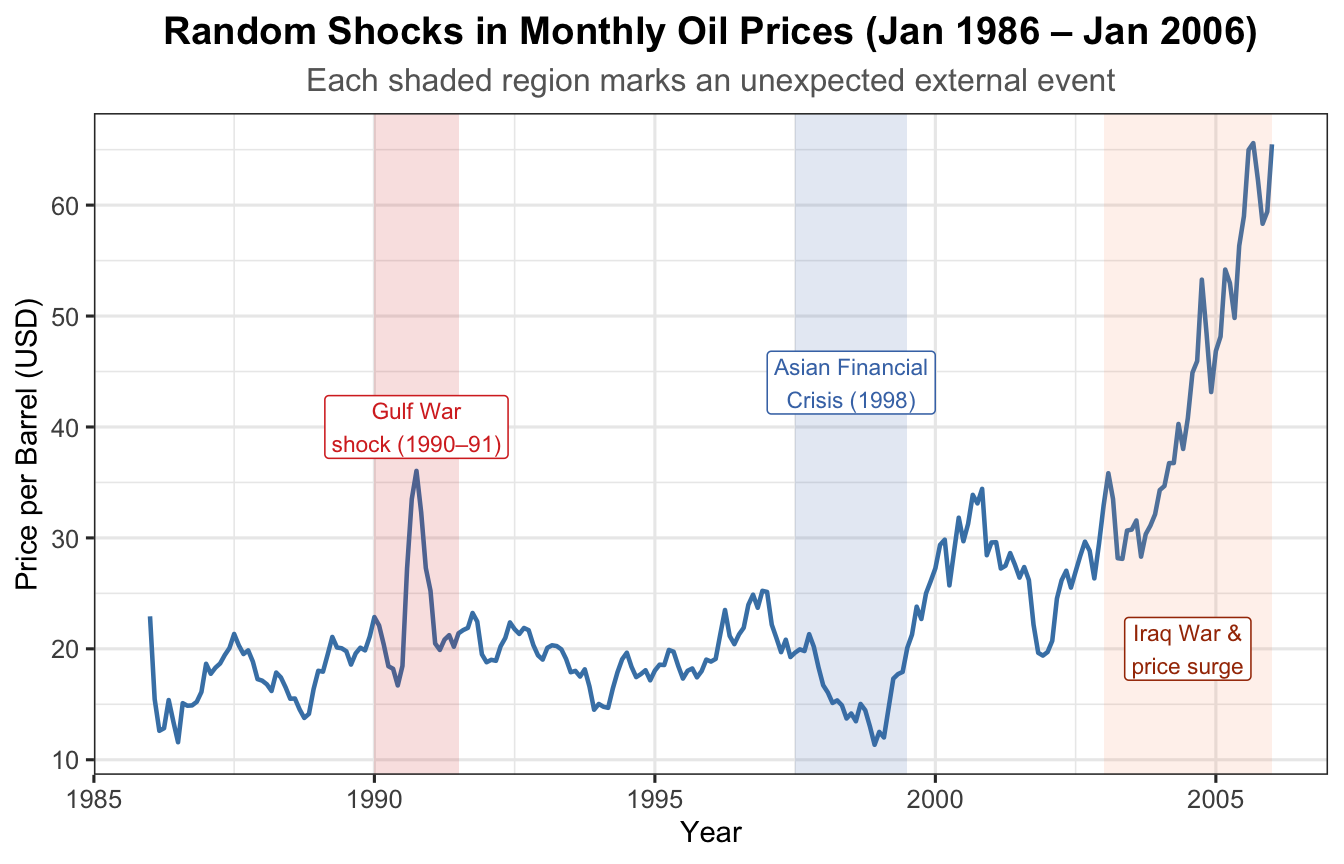
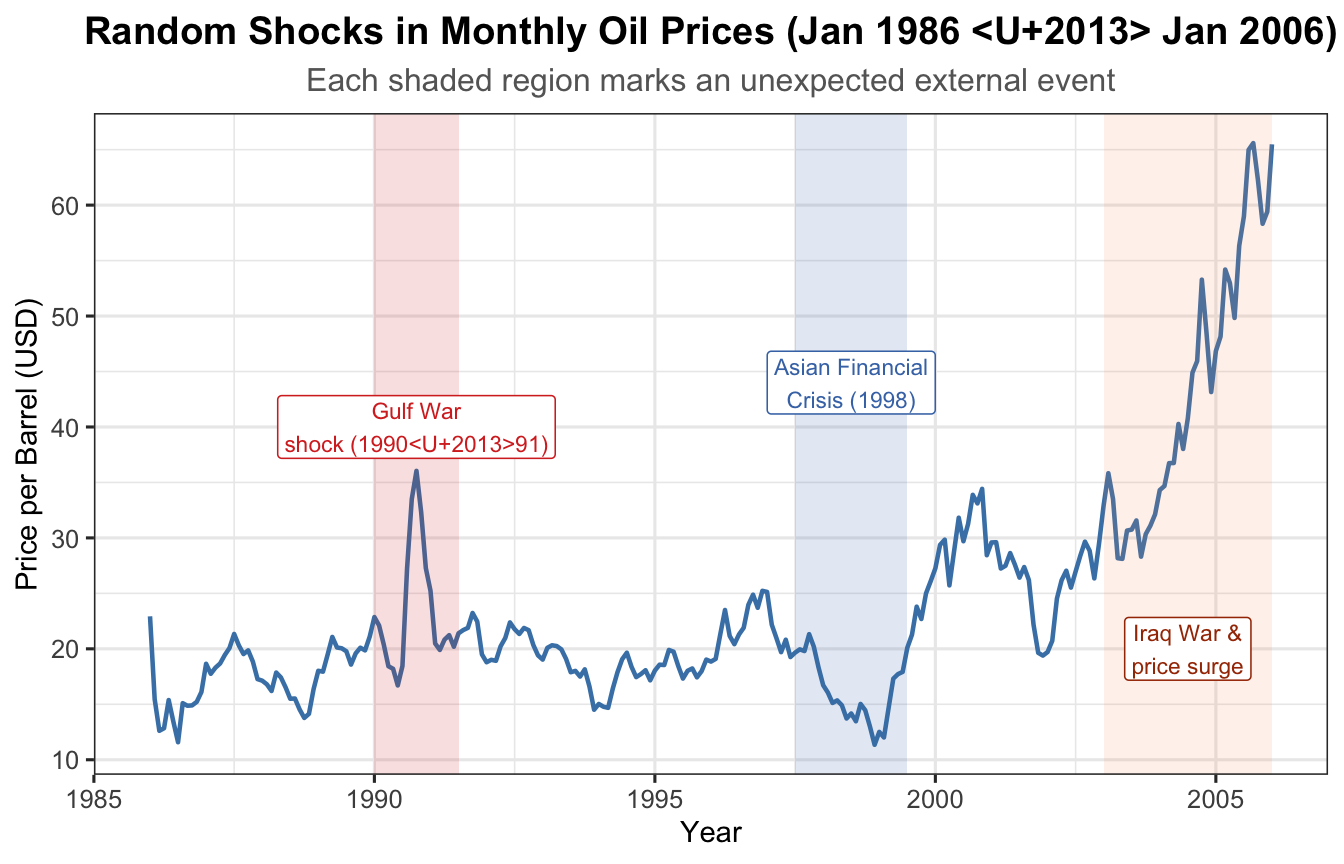
Update instructor name to Muhammad Asmu'i Abdul Rahim
Re-render index, C1 and C2 to replace Dr Nurul Nisa' Khairol Azmi
with Muhammad Asmu'i Abdul Rahim in page body and footer.

Changed region(s): [[0.0625, 0.0, 1.0, 0.0625], [0.1875, 0.4375, 0.4062, 0.5312]]

diff --git a/docs/C2 Univariate Modelling Techniques.html b/docs/C2 Univariate Modelling Techniques.html
@@ -399,7 +399,7 @@ Note
 <div id="tbl-naive" class="cell quarto-float quarto-figure quarto-figure-center anchored">
 <figure class="quarto-float quarto-float-tbl figure">
 <figcaption class="quarto-float-caption-top quarto-float-caption quarto-float-tbl" id="tbl-naive-caption-0ceaefa1-69ba-4598-a22c-09a6ac19f8ca">
-Table&nbsp;1: Naive forecast — worked example
+Table&nbsp;1: Naive forecast &lt;U+2014&gt; worked example
 </figcaption>
 <div aria-describedby="tbl-naive-caption-0ceaefa1-69ba-4598-a22c-09a6ac19f8ca">
 <div class="cell-output-display">
@@ -565,7 +565,7 @@ Note
 <div id="tbl-naive-trend" class="cell quarto-float quarto-figure quarto-figure-center anchored">
 <figure class="quarto-float quarto-float-tbl figure">
 <figcaption class="quarto-float-caption-top quarto-float-caption quarto-float-tbl" id="tbl-naive-trend-caption-0ceaefa1-69ba-4598-a22c-09a6ac19f8ca">
-Table&nbsp;2: Naive with trend — worked example
+Table&nbsp;2: Naive with trend &lt;U+2014&gt; worked example
 </figcaption>
 <div aria-describedby="tbl-naive-trend-caption-0ceaefa1-69ba-4598-a22c-09a6ac19f8ca">
 <div class="cell-output-display">
@@ -688,7 +688,7 @@ Table&nbsp;2: Naive with trend — worked example
 <div id="tbl-avg-change" class="cell quarto-float quarto-figure quarto-figure-center anchored">
 <figure class="quarto-float quarto-float-tbl figure">
 <figcaption class="quarto-float-caption-top quarto-float-caption quarto-float-tbl" id="tbl-avg-change-caption-0ceaefa1-69ba-4598-a22c-09a6ac19f8ca">
-Table&nbsp;3: Average change — worked example
+Table&nbsp;3: Average change &lt;U+2014&gt; worked example
 </figcaption>
 <div aria-describedby="tbl-avg-change-caption-0ceaefa1-69ba-4598-a22c-09a6ac19f8ca">
 <div class="cell-output-display">
@@ -813,7 +813,7 @@ Important
 <div id="tbl-avg-pct" class="cell quarto-float quarto-figure quarto-figure-center anchored">
 <figure class="quarto-float quarto-float-tbl figure">
 <figcaption class="quarto-float-caption-top quarto-float-caption quarto-float-tbl" id="tbl-avg-pct-caption-0ceaefa1-69ba-4598-a22c-09a6ac19f8ca">
-Table&nbsp;4: Average percent change — worked example
+Table&nbsp;4: Average percent change &lt;U+2014&gt; worked example
 </figcaption>
 <div aria-describedby="tbl-avg-pct-caption-0ceaefa1-69ba-4598-a22c-09a6ac19f8ca">
 <div class="cell-output-display">
@@ -1013,7 +1013,7 @@ Important
 <div id="tbl-ses" class="cell quarto-float quarto-figure quarto-figure-center anchored">
 <figure class="quarto-float quarto-float-tbl figure">
 <figcaption class="quarto-float-caption-top quarto-float-caption quarto-float-tbl" id="tbl-ses-caption-0ceaefa1-69ba-4598-a22c-09a6ac19f8ca">
-Table&nbsp;5: Single exponential smoothing (α = 0.8) — worked example
+Table&nbsp;5: Single exponential smoothing (&lt;U+03B1&gt; = 0.8) &lt;U+2014&gt; worked example
 </figcaption>
 <div aria-describedby="tbl-ses-caption-0ceaefa1-69ba-4598-a22c-09a6ac19f8ca">
 <div class="cell-output-display">
@@ -1077,7 +1077,7 @@ Table&nbsp;5: Single exponential smoothing (α = 0.8) — worked example
 <span id="cb23-2"><a href="#cb23-2" aria-hidden="true" tabindex="-1"></a><span class="fu">cat</span>(<span class="st">"Forecast for 2024 (SES, α = 0.8):"</span>, <span class="fu">round</span>(f2024_ses, <span class="dv">4</span>), <span class="st">"</span><span class="sc">\n</span><span class="st">"</span>)</span></code><button title="Copy to Clipboard" class="code-copy-button"><i class="bi"></i></button></pre></div>
 </details>
 <div class="cell-output cell-output-stdout">
-<pre><code>Forecast for 2024 (SES, α = 0.8): 15.6538 </code></pre>
+<pre><code>Forecast for 2024 (SES, &lt;U+03B1&gt; = 0.8): 15.6538 </code></pre>
 </div>
 <details class="code-fold">
 <summary>Show R Code</summary>
@@ -1240,7 +1240,7 @@ Figure&nbsp;2: SES forecast for Malaysia CPI (α = 0.999)
 <div id="tbl-des" class="cell quarto-float quarto-figure quarto-figure-center anchored">
 <figure class="quarto-float quarto-float-tbl figure">
 <figcaption class="quarto-float-caption-top quarto-float-caption quarto-float-tbl" id="tbl-des-caption-0ceaefa1-69ba-4598-a22c-09a6ac19f8ca">
-Table&nbsp;6: Double exponential smoothing (α = 0.8) — worked example
+Table&nbsp;6: Double exponential smoothing (&lt;U+03B1&gt; = 0.8) &lt;U+2014&gt; worked example
 </figcaption>
 <div aria-describedby="tbl-des-caption-0ceaefa1-69ba-4598-a22c-09a6ac19f8ca">
 <div class="cell-output-display">
@@ -1342,7 +1342,7 @@ Table&nbsp;6: Double exponential smoothing (α = 0.8) — worked example
 <span id="cb33-2"><a href="#cb33-2" aria-hidden="true" tabindex="-1"></a><span class="fu">cat</span>(<span class="st">"Forecast for 2024 (DES, α = 0.8, m = 1):"</span>, <span class="fu">round</span>(f2024_des, <span class="dv">4</span>), <span class="st">"</span><span class="sc">\n</span><span class="st">"</span>)</span></code><button title="Copy to Clipboard" class="code-copy-button"><i class="bi"></i></button></pre></div>
 </details>
 <div class="cell-output cell-output-stdout">
-<pre><code>Forecast for 2024 (DES, α = 0.8, m = 1): 17.7402 </code></pre>
+<pre><code>Forecast for 2024 (DES, &lt;U+03B1&gt; = 0.8, m = 1): 17.7402 </code></pre>
 </div>
 <details class="code-fold">
 <summary>Show R Code</summary>
@@ -1392,7 +1392,7 @@ Table&nbsp;6: Double exponential smoothing (α = 0.8) — worked example
 <div id="tbl-holt" class="cell quarto-float quarto-figure quarto-figure-center anchored">
 <figure class="quarto-float quarto-float-tbl figure">
 <figcaption class="quarto-float-caption-top quarto-float-caption quarto-float-tbl" id="tbl-holt-caption-0ceaefa1-69ba-4598-a22c-09a6ac19f8ca">
-Table&nbsp;7: Holt’s method (α = 0.6, β = 0.2) — worked example
+Table&nbsp;7: Holt’s method (&lt;U+03B1&gt; = 0.6, &lt;U+03B2&gt; = 0.2) &lt;U+2014&gt; worked example
 </figcaption>
 <div aria-describedby="tbl-holt-caption-0ceaefa1-69ba-4598-a22c-09a6ac19f8ca">
 <div class="cell-output-display">
@@ -1470,7 +1470,7 @@ Table&nbsp;7: Holt’s method (α = 0.6, β = 0.2) — worked example
 <span id="cb38-2"><a href="#cb38-2" aria-hidden="true" tabindex="-1"></a><span class="fu">cat</span>(<span class="st">"Forecast for 2024 (Holt, α = 0.6, β = 0.2):"</span>, <span class="fu">round</span>(f2024_holt, <span class="dv">4</span>), <span class="st">"</span><span class="sc">\n</span><span class="st">"</span>)</span></code><button title="Copy to Clipboard" class="code-copy-button"><i class="bi"></i></button></pre></div>
 </details>
 <div class="cell-output cell-output-stdout">
-<pre><code>Forecast for 2024 (Holt, α = 0.6, β = 0.2): 18.292 </code></pre>
+<pre><code>Forecast for 2024 (Holt, &lt;U+03B1&gt; = 0.6, &lt;U+03B2&gt; = 0.2): 18.292 </code></pre>
 </div>
 <details class="code-fold">
 <summary>Show R Code</summary>
@@ -1652,7 +1652,7 @@ Figure&nbsp;3: Holt’s method forecast for Malaysia CPI (α = 0.9922, β = 0.37
 <div id="tbl-arres" class="cell quarto-float quarto-figure quarto-figure-center anchored">
 <figure class="quarto-float quarto-float-tbl figure">
 <figcaption class="quarto-float-caption-top quarto-float-caption quarto-float-tbl" id="tbl-arres-caption-0ceaefa1-69ba-4598-a22c-09a6ac19f8ca">
-Table&nbsp;8: ARRES (α₁ = 0.6, β = 0.2) — worked example
+Table&nbsp;8: ARRES (&lt;U+03B1&gt;&lt;U+2081&gt; = 0.6, &lt;U+03B2&gt; = 0.2) &lt;U+2014&gt; worked example
 </figcaption>
 <div aria-describedby="tbl-arres-caption-0ceaefa1-69ba-4598-a22c-09a6ac19f8ca">
 <div class="cell-output-display">
@@ -1753,7 +1753,7 @@ Table&nbsp;8: ARRES (α₁ = 0.6, β = 0.2) — worked example
 <div class="sourceCode cell-code" id="cb48"><pre class="sourceCode r code-with-copy"><code class="sourceCode r"><span id="cb48-1"><a href="#cb48-1" aria-hidden="true" tabindex="-1"></a><span class="fu">cat</span>(<span class="st">"MSE (ARRES, β = 0.2):"</span>, <span class="fu">round</span>(mse_ar, <span class="dv">4</span>), <span class="st">"</span><span class="sc">\n</span><span class="st">"</span>)</span></code><button title="Copy to Clipboard" class="code-copy-button"><i class="bi"></i></button></pre></div>
 </details>
 <div class="cell-output cell-output-stdout">
-<pre><code>MSE (ARRES, β = 0.2): 4.8 </code></pre>
+<pre><code>MSE (ARRES, &lt;U+03B2&gt; = 0.2): 4.8 </code></pre>
 </div>
 </div>
 <blockquote class="blockquote">
@@ -1787,7 +1787,7 @@ Table&nbsp;8: ARRES (α₁ = 0.6, β = 0.2) — worked example
 <div id="tbl-hw-data" class="cell quarto-float quarto-figure quarto-figure-center anchored">
 <figure class="quarto-float quarto-float-tbl figure">
 <figcaption class="quarto-float-caption-top quarto-float-caption quarto-float-tbl" id="tbl-hw-data-caption-0ceaefa1-69ba-4598-a22c-09a6ac19f8ca">
-Table&nbsp;9: Holt-Winters example — quarterly price data
+Table&nbsp;9: Holt-Winters example &lt;U+2014&gt; quarterly price data
 </figcaption>
 <div aria-describedby="tbl-hw-data-caption-0ceaefa1-69ba-4598-a22c-09a6ac19f8ca">
 <div class="cell-output-display">
@@ -2787,7 +2787,7 @@ window.document.addEventListener("DOMContentLoaded", function (event) {
 <footer class="footer">
   <div class="nav-footer">
     <div class="nav-footer-left">
-<p>© 2025 Dr Nurul Nisa’ Khairol Azmi — UiTM</p>
+<p>© 2025 Muhammad Asmu’i bin Abdul Rahim — UiTM</p>
 </div>   
     <div class="nav-footer-center">
       &nbsp;

diff --git a/docs/index.html b/docs/index.html
@@ -202,7 +202,7 @@ pre > code.sourceCode > span > a:first-child::before { text-decoration: underlin
 <div class="grid">
 <section id="instructor" class="level3 g-col-12 g-col-md-6">
 <h3 class="anchored" data-anchor-id="instructor">Instructor</h3>
-<p><strong>Dr Nurul Nisa’ Khairol Azmi</strong> Faculty of Computer and Mathematical Sciences Universiti Teknologi MARA</p>
+<p><strong>Muhammad Asmu’i Bin Abdul Rahim</strong> Faculty of Computer and Mathematical Sciences Universiti Teknologi MARA</p>
 </section>
 <section id="course-data" class="level3 g-col-12 g-col-md-6">
 <h3 class="anchored" data-anchor-id="course-data">Course Data</h3>
@@ -677,7 +677,7 @@ window.document.addEventListener("DOMContentLoaded", function (event) {
 <footer class="footer">
   <div class="nav-footer">
     <div class="nav-footer-left">
-<p>© 2025 Dr Nurul Nisa’ Khairol Azmi — UiTM</p>
+<p>© 2025 Muhammad Asmu’i bin Abdul Rahim — UiTM</p>
 </div>   
     <div class="nav-footer-center">
       &nbsp;
